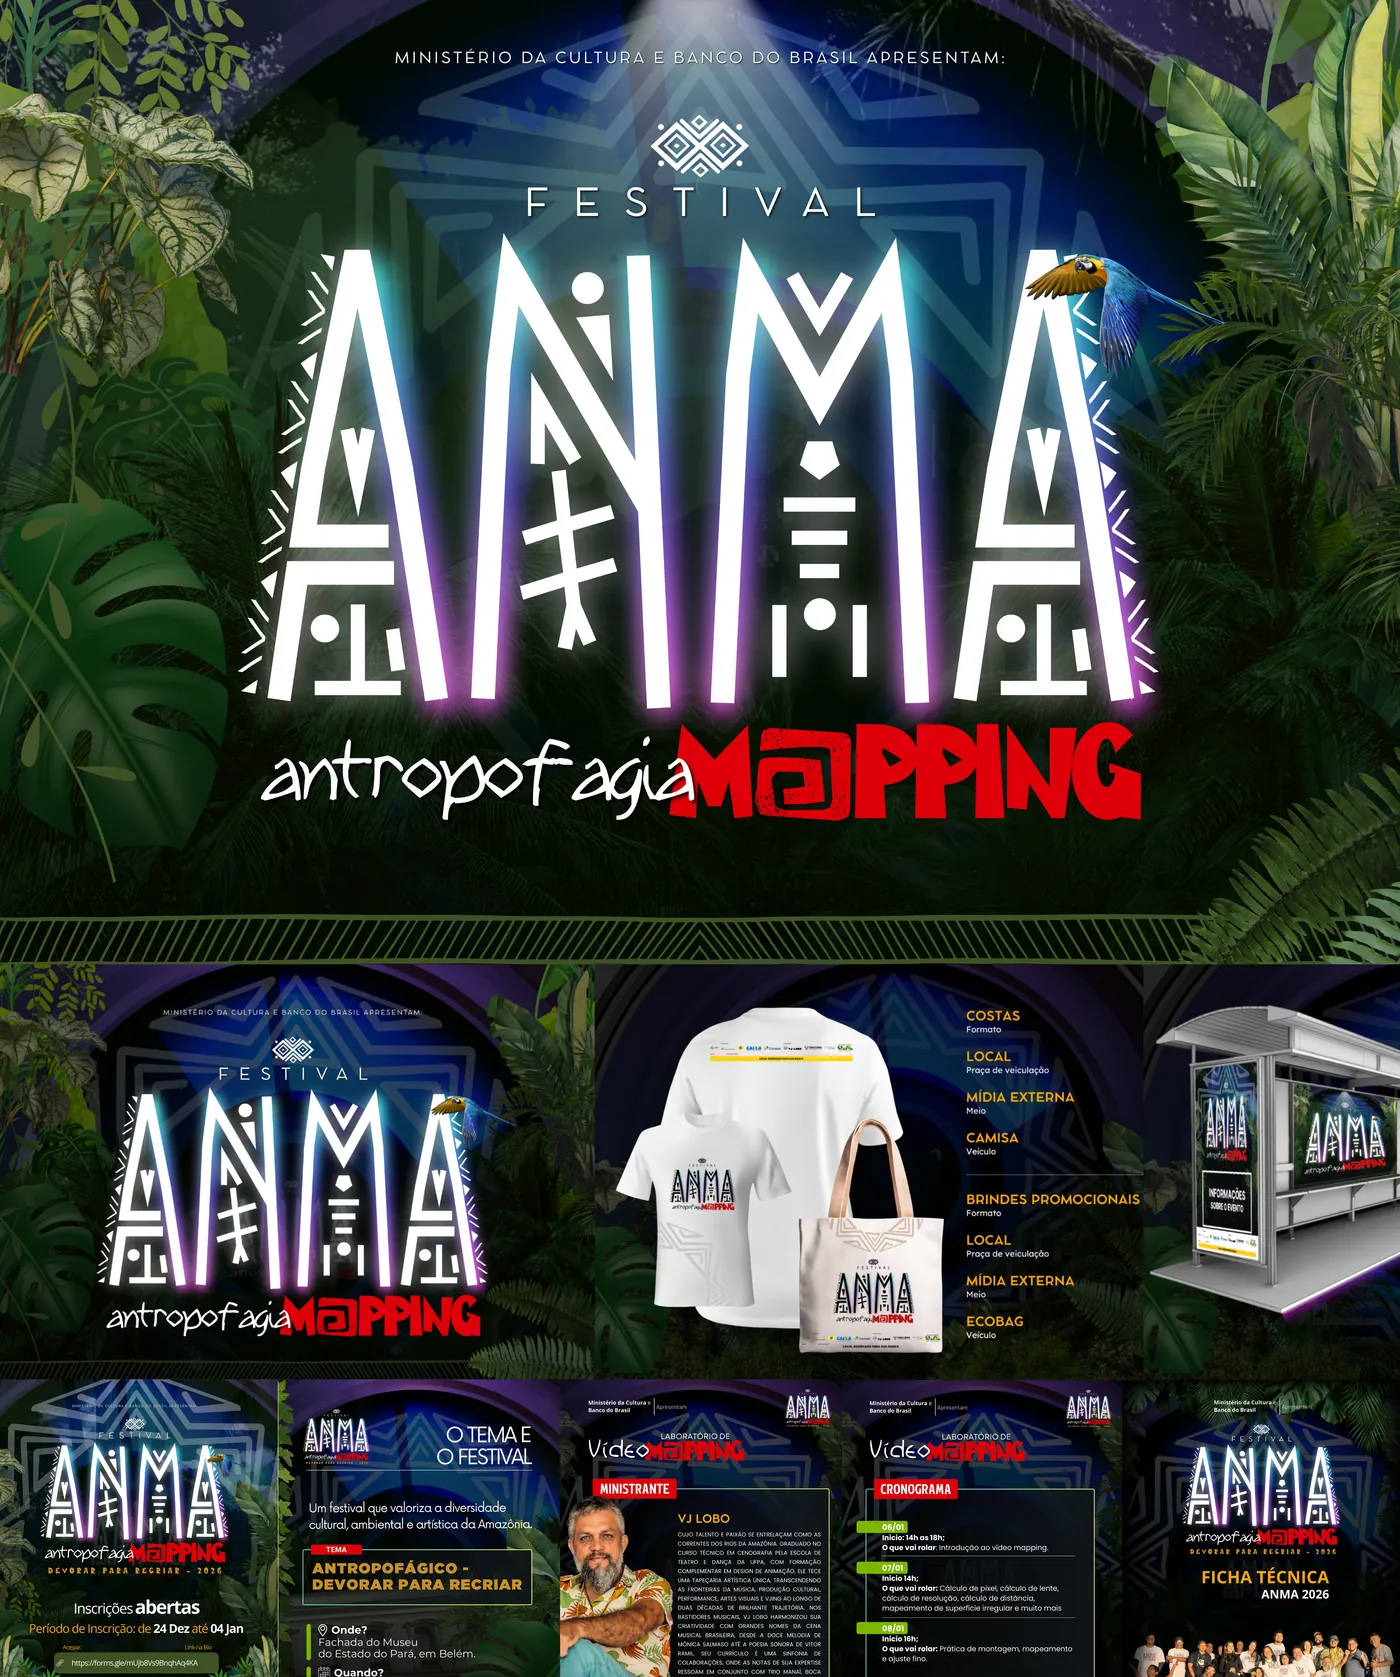
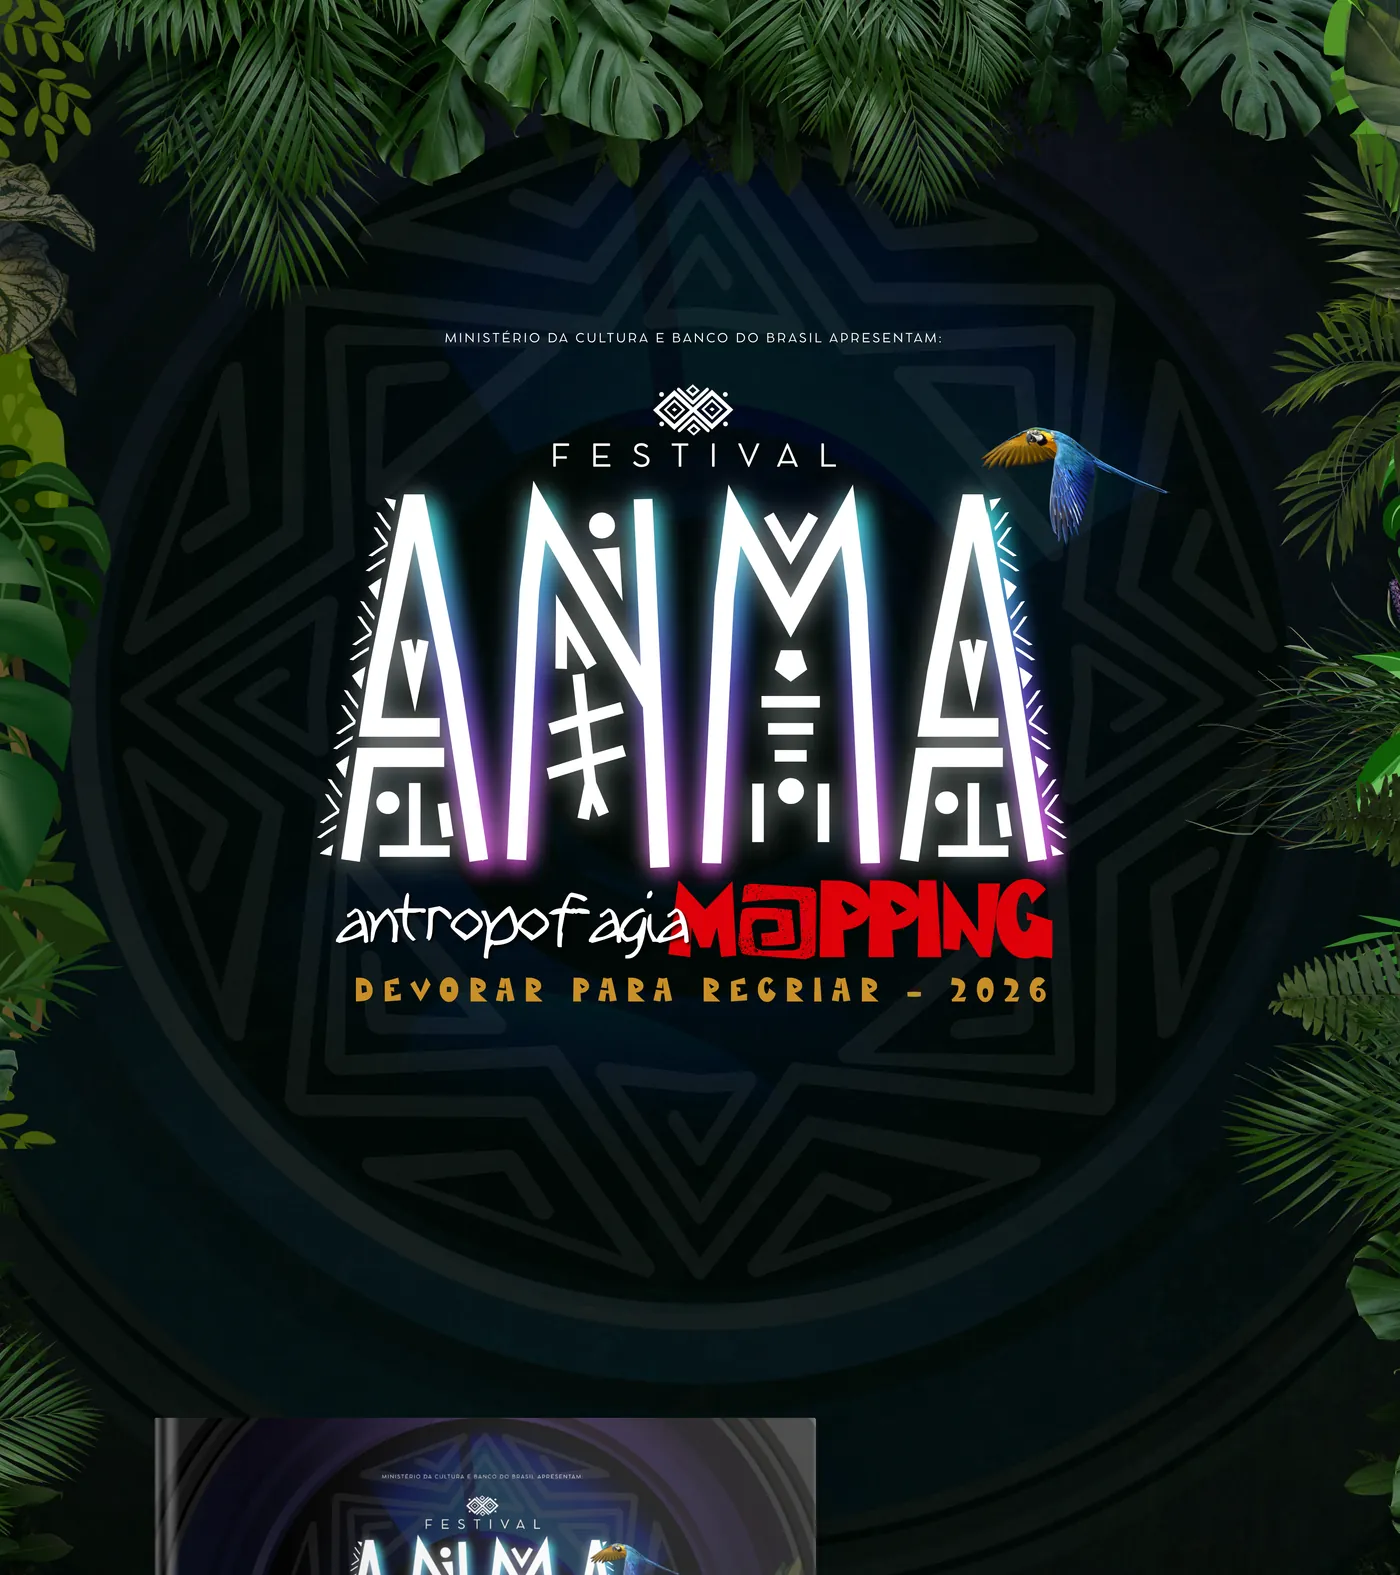
Antropofagia Mapping: nova imagem do Drive
- Capa e três partes geradas da versão nova (3840 x 12960)
- processar_imagens.py aceita processar só os projetos indicados

Claude-Session: https://claude.ai/code/session_01RLZUj9rjpzXsmc93EoFHZf

diff --git a/assets/dados/trabalhos.js b/assets/dados/trabalhos.js
@@ -224,6 +224,7 @@ export const TRABALHOS = [
     midias: [
       "/assets/imagens/trabalhos/antropofagia-mapping/parte-01.webp",
       "/assets/imagens/trabalhos/antropofagia-mapping/parte-02.webp",
+      "/assets/imagens/trabalhos/antropofagia-mapping/parte-03.webp",
     ],
   },
   {

diff --git a/ferramentas/processar_imagens.py b/ferramentas/processar_imagens.py
@@ -8,6 +8,8 @@ import os, sys, json, subprocess, glob
 from PIL import Image
 Image.MAX_IMAGE_PIXELS = None
 DESTINO = sys.argv[1]
+# opcional: só os projetos indicados, separados por vírgula (ex.: antropofagia-mapping)
+SO = set(sys.argv[2].split(",")) if len(sys.argv) > 2 else None
 LARG, ALT_MAX = 1400, 2100
 MAPA = {
   "olha-o-cabelo-dela": "arq/BOOK - OLHA O CABELO DELA – AFROTOUR (2).png",
@@ -27,7 +29,6 @@ MAPA = {
   "amazonia-motiro": "arq/Ópera  Contemporânea Amazônia Motirô (2).pdf",
   "orquestra-jovem-do-reconcavo": "arq/ORQUESTRA JOVEM DO RECÔNCAVO – PLANO ANUAL (1).pdf",
 }
-VITRINE = {"capa-logos": "arq/CAPA LOGOS.png", "capa-book": "arq/CAPA BOOK.png", "capa-sites": "arq/CAPA SITES.png"}
 
 def capa(im, saida, topo=True):
     w, h = im.size
@@ -40,6 +41,8 @@ def capa(im, saida, topo=True):
 
 resultado = {}
 for slug, origem in MAPA.items():
+    if SO and slug not in SO:
+        continue
     pasta = f"{DESTINO}/trabalhos/{slug}"; os.makedirs(pasta, exist_ok=True)
     for f in glob.glob(pasta + "/*"): os.remove(f)
     paginas = []
@@ -63,7 +66,4 @@ for slug, origem in MAPA.items():
     resultado[slug] = paginas
     tam = sum(os.path.getsize(f) for f in glob.glob(pasta + "/*"))
     print(f"{slug}: {len(paginas)} partes, {tam // 1024} KB")
-os.makedirs(f"{DESTINO}/vitrine", exist_ok=True)
-for nome, origem in VITRINE.items():
-    capa(Image.open(origem).convert("RGB"), f"{DESTINO}/vitrine/{nome}.webp")
 json.dump(resultado, open("paginas.json", "w"), indent=1)
